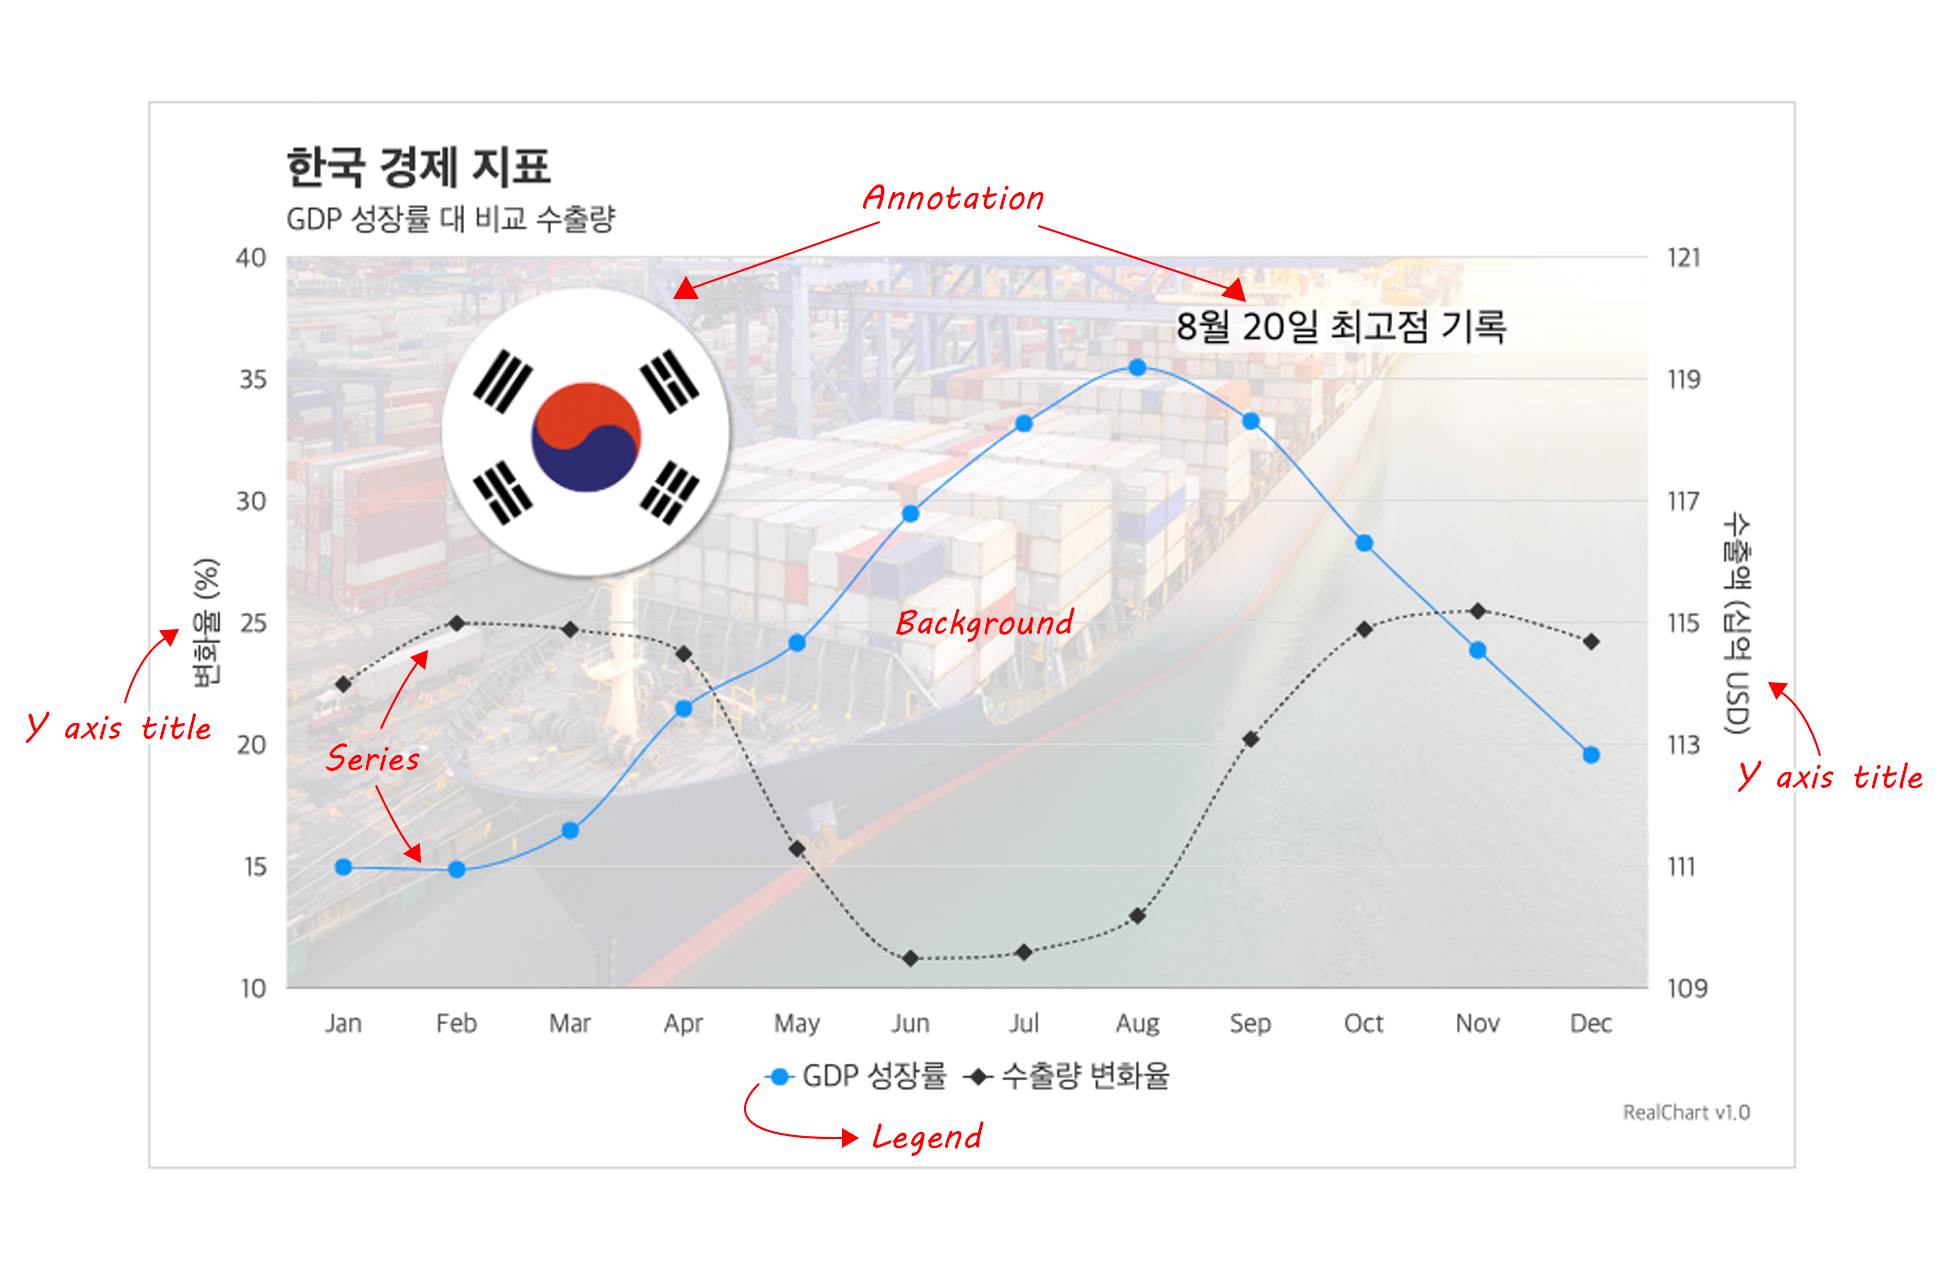
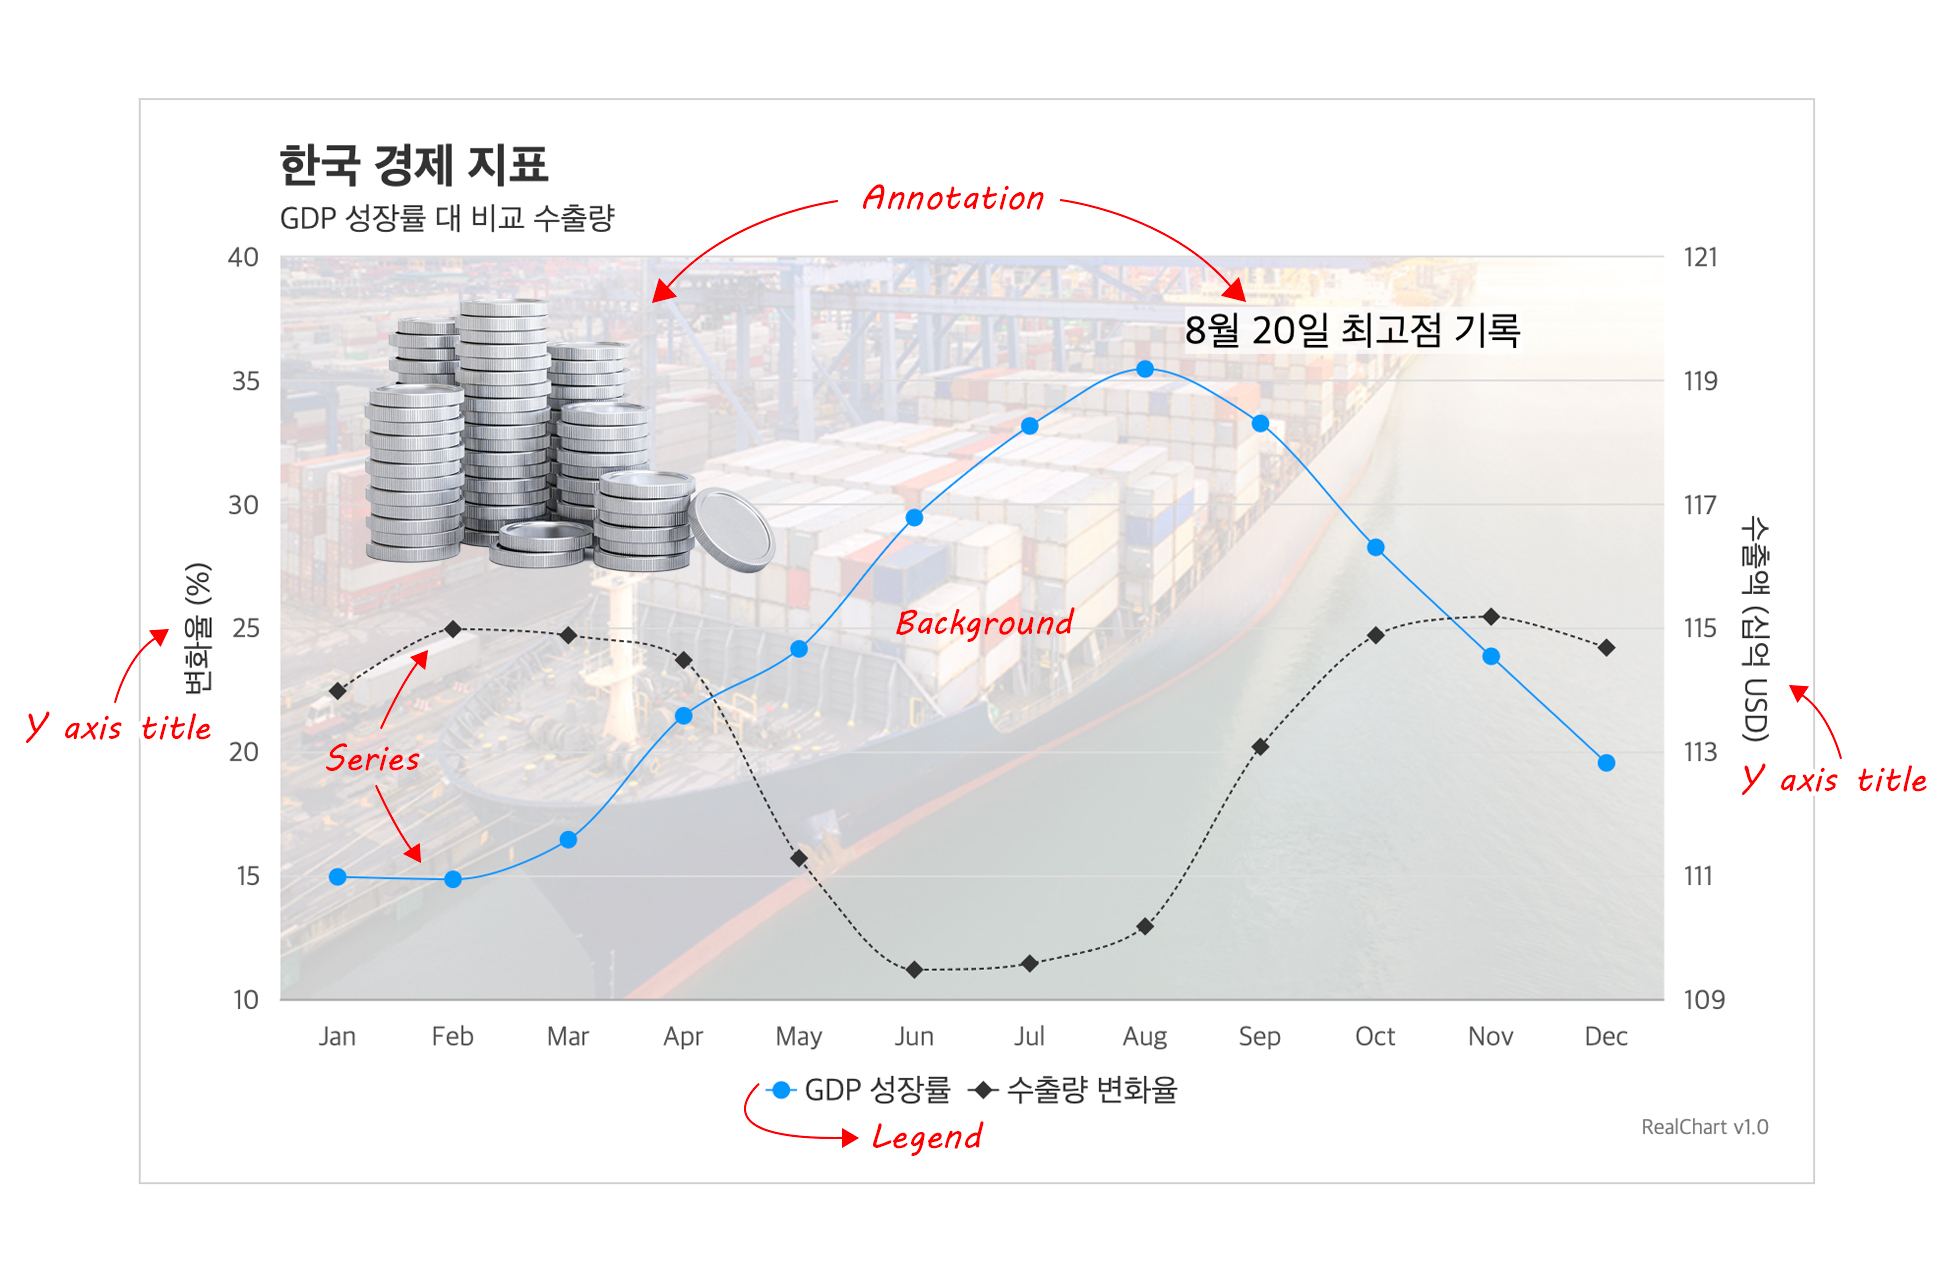
태극기 이미지 수정

diff --git a/web/realchart/demo/guide-image02.js b/web/realchart/demo/guide-image02.js
@@ -45,8 +45,8 @@ const config = {
             align: 'left',
             offsetX: 70,
             offsetY: 5,
-            width: 170,
-            imageUrl: '../assets/images/태극기.png'
+            width: 230,
+            imageUrl: '../assets/images/동전.png'
         }],
 		image: {
             url: '../assets/images/컨테이너선.jpeg',
